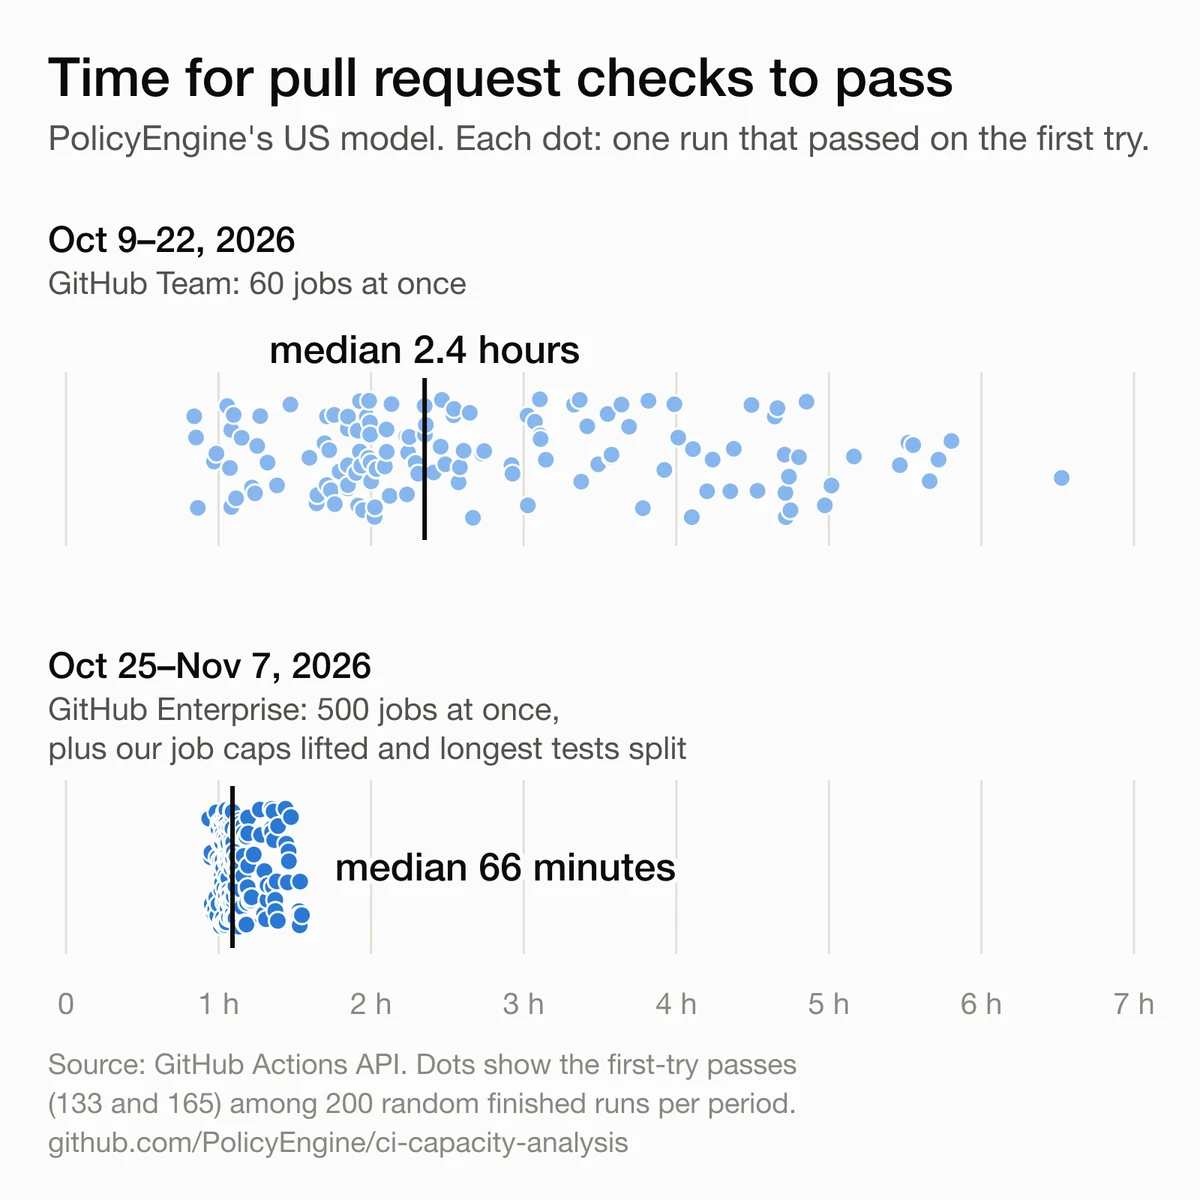
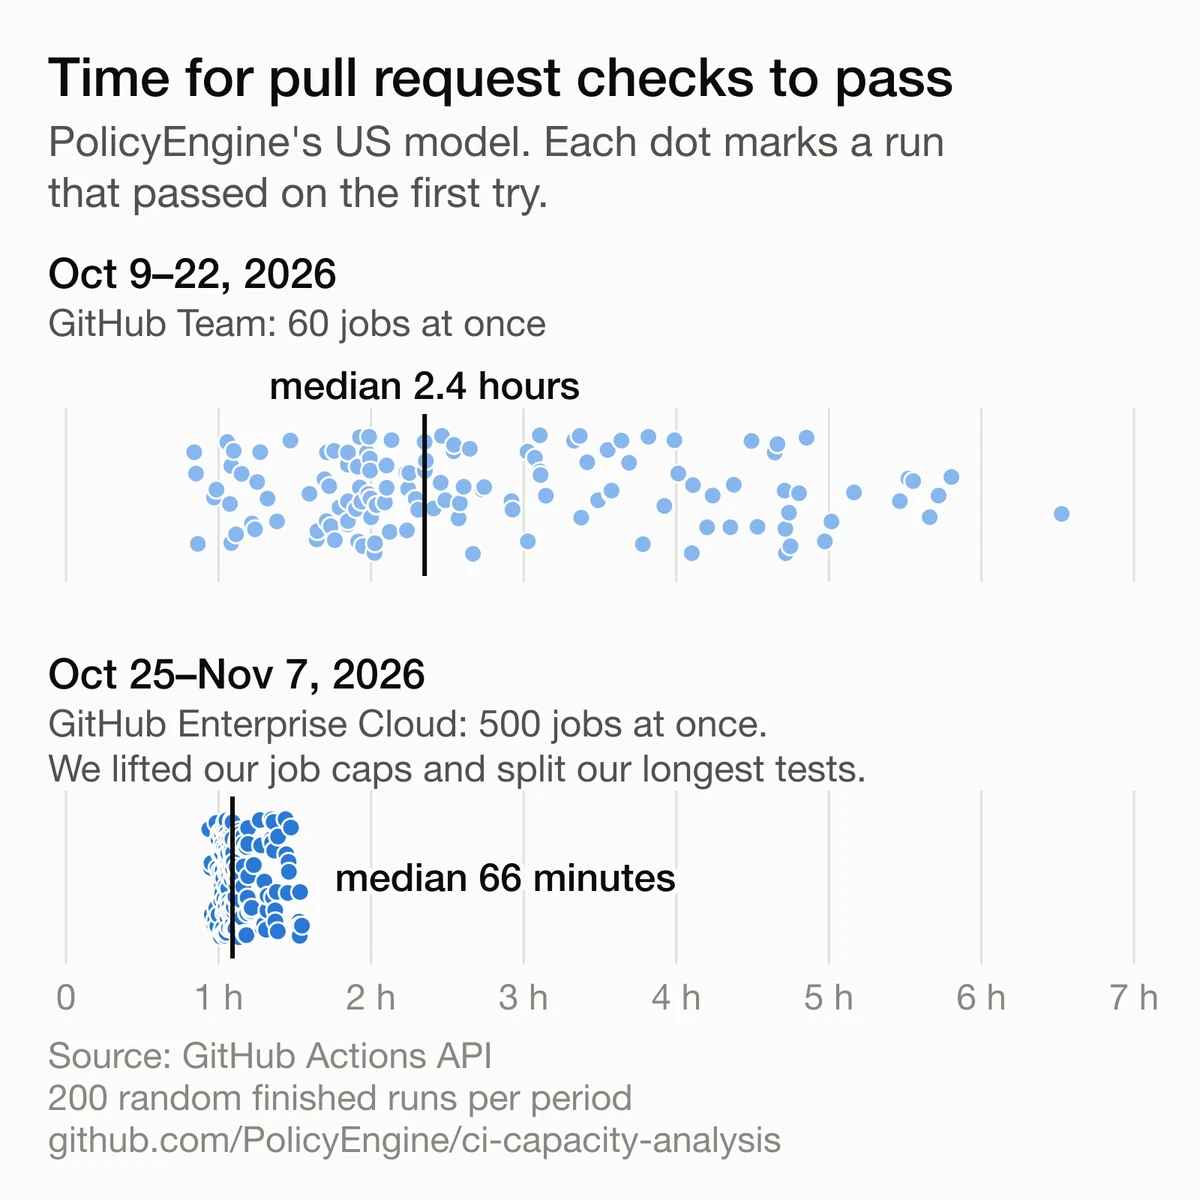
Apply the second review pass to the CI capacity post
- Describe policyengine-us#10231 as it reads: six-job caps per run on Baseline
  and Contrib, Contrib after Baseline, at most 11 jobs at once instead of about
  25; give the waits under the caps (35 and 11 minutes).
- State the capped-job exclusion in prose; split out the 13-minute wait for the
  other jobs, now backed by the analysis repository.
- Table: 3 seconds (3 to 3) and 141 minutes (126 to 156); drop the claim about
  every resample.
- Second chart: horizontal, retitled, "60 (the limit)"; first chart's subtitle
  gives the date range.
- Rest Python tests: the longest-running part, balanced by times from a recent
  successful run on main.
- Replace the dot chart with the re-rendered version and keep the alt text,
  description and lead at "about 67 hours".

diff --git a/app/src/data/posts/articles/github-actions-60-job-limit.md b/app/src/data/posts/articles/github-actions-60-job-limit.md
@@ -1,12 +1,12 @@
-PolicyEngine merged 2,454 pull requests in October 2026, 11.6 times as many as in October 2025. GitHub Actions runs the automated checks on each pull request as a set of jobs, and on its Team plan it runs up to 60 of an organization's jobs at once ([GitHub's Actions limits](https://docs.github.com/en/actions/reference/limits)). From October 9 to 22, we hit that limit for at least 67 hours. For example, jobs on pull requests to our US model waited a median 22 minutes to start, partly behind caps we had set.
+PolicyEngine merged 2,454 pull requests in October 2026, 11.6 times as many as in October 2025. GitHub Actions runs the automated checks on each pull request as a set of jobs. On its Team plan, GitHub runs up to 60 jobs at once on its standard runners ([GitHub's Actions limits](https://docs.github.com/en/actions/reference/limits)). From October 9 to 22, we hit that limit for about 67 hours. For example, jobs on pull requests to our US model waited a median 22 minutes to start, partly behind caps we had set.
 
-On October 23, we moved to GitHub Enterprise Cloud, which runs up to 500 jobs at once. Ziming Hua also lifted those caps and split the US model's longest tests across parallel jobs. In the two weeks after, jobs on pull requests to the US model started in a median 3 seconds. Checks that passed on the first try finished in a median 66 minutes, down from 2.4 hours.
+On October 23, we moved to GitHub Enterprise Cloud, where GitHub runs up to 500 jobs at once. Ziming Hua also lifted those caps and split the US model's longest tests across parallel jobs. In the two weeks after, jobs on pull requests to the US model started in a median 3 seconds. Checks that passed on the first try finished in a median 66 minutes, down from 2.4 hours.
 
 ```chart
 {
   "type": "bar",
   "title": "Pull requests PolicyEngine merged each month",
-  "subtitle": "Every repository in the PolicyEngine organization on GitHub, public and private",
+  "subtitle": "Every repository in the PolicyEngine organization on GitHub, public and private, October 2025 to October 2026",
   "xKey": "month",
   "series": [{ "key": "merged", "name": "Merged pull requests", "color": "primary" }],
   "data": [
@@ -33,14 +33,17 @@ On October 23, we moved to GitHub Enterprise Cloud, which runs up to 500 jobs at
 
 ## Where the time went
 
-We pulled the record of every job that ran on GitHub's standard runners in 12 of our repositories, for runs created from October 9 to 22: 57,357 jobs in all. Together, those repositories reached 60 jobs at once in 4,025 of the 20,160 minutes, or 67 hours, and almost never went past it, so the limit covered the 12 together. They ran 55 or more in 9,842 minutes, nearly half of the two weeks. Jobs in our other repositories count toward the limit too, so the organization as a whole ran at least this many.
+We pulled the record of every job that ran on GitHub's standard runners in 12 of our repositories, for runs created from October 9 to 22: 57,357 jobs in all. Together, those repositories reached 60 jobs at once in 4,025 of the 20,160 minutes, or about 67 hours. They almost never went past 60, so the limit covered the 12 together. They ran 55 or more in 9,842 minutes, nearly half of the two weeks. Jobs in our other repositories count toward the limit too, so these counts understate how many jobs the organization ran at once.
 
-Jobs that GitHub created while fewer than 45 were running started in a median 2 seconds. With 55 to 59 running, the median wait rose to 23 minutes, and at the limit, to 27 minutes.
+On October 15, Ziming capped two of the US model's test suites, Baseline and Contrib, at six jobs at a time in each run, and made Contrib wait for Baseline ([policyengine-us#10231](https://github.com/PolicyEngine/policyengine-us/pull/10231)). Each run of the model's checks then ran at most 11 jobs at once, down from about 25. In the runs we sampled from before the caps, Baseline and Contrib jobs already waited a median 19 minutes to start, and the model's other jobs 4 minutes. In runs created under the caps, Baseline and Contrib jobs waited a median 35 minutes, including time they waited behind the caps, and the model's other jobs 11 minutes.
+
+Across the 12 repositories, jobs that GitHub created while fewer than 45 were running started in a median 2 seconds. With 55 to 59 running, the median wait rose to 23 minutes, and at the limit, to 27 minutes. We leave out the US model's Baseline and Contrib jobs created after the caps took effect, since they also waited behind the caps.
 
 ```chart
 {
   "type": "bar",
-  "title": "Jobs that waited more than 5 minutes to start",
+  "orientation": "horizontal",
+  "title": "Share of jobs that waited more than 5 minutes to start",
   "subtitle": "By the number of jobs running when GitHub created the job, in 12 PolicyEngine repositories, October 9 to 22, 2026",
   "xKey": "running",
   "series": [{ "key": "share", "name": "Jobs that waited more than 5 minutes", "color": "primary" }],
@@ -49,7 +52,7 @@ Jobs that GitHub created while fewer than 45 were running started in a median 2 
     { "running": "30 to 44", "share": 3.04 },
     { "running": "45 to 54", "share": 27.16 },
     { "running": "55 to 59", "share": 80.15 },
-    { "running": "At the limit (60)", "share": 81.75 }
+    { "running": "60 (the limit)", "share": 81.75 }
   ],
   "legend": false,
   "format": { "decimals": 0, "suffix": "%" },
@@ -57,15 +60,13 @@ Jobs that GitHub created while fewer than 45 were running started in a median 2 
 }
 ```
 
-On October 15, Ziming capped the US model's Baseline and Contrib test suites at six jobs at a time per pull request, so pull requests would share the 60-job limit ([policyengine-us#10231](https://github.com/PolicyEngine/policyengine-us/pull/10231)). Before then, in the runs we sampled, jobs in those suites already waited a median 18.7 minutes to start, and the model's other jobs 4.2 minutes. After that, Baseline and Contrib jobs also waited their turn under the caps, and the model's other jobs waited a median 11.3 minutes.
-
 ## What we changed
 
 We made three changes on October 23 and 24:
 
 - We moved our organization to GitHub Enterprise Cloud.
-- Ziming removed the six-job caps ([policyengine-us#10416](https://github.com/PolicyEngine/policyengine-us/pull/10416)).
-- Ziming split the Rest Python tests, which set the length of the US model's checks, from two jobs in sequence into 4 to 12 parallel jobs ([policyengine-us#10439](https://github.com/PolicyEngine/policyengine-us/pull/10439)). A first job divides the tests among them by how long each took in recent runs.
+- Ziming removed the six-job caps and kept Contrib waiting for Baseline ([policyengine-us#10416](https://github.com/PolicyEngine/policyengine-us/pull/10416)).
+- Ziming split the Rest Python tests, the longest-running part of the US model's checks, from two jobs in sequence into 4 to 12 parallel jobs ([policyengine-us#10439](https://github.com/PolicyEngine/policyengine-us/pull/10439)). A first job divides the tests among them by how long each took in a recent successful run on our main branch.
 
 We compare the two weeks before these changes with the two weeks after, leaving out October 23 and 24, and we don't divide the gain among the three.
 
@@ -79,15 +80,15 @@ From each two-week window, we drew 200 random runs of the checks on pull request
 | --- | ---: | ---: |
 | GitHub plan | Team | Enterprise Cloud |
 | Jobs GitHub runs at once | 60 | 500 |
-| Median wait for a job to start | 22 minutes (16 to 27) | 3 seconds |
+| Median wait for a job to start | 22 minutes (16 to 27) | 3 seconds (3 to 3) |
 | Jobs that waited more than 5 minutes | 68% | 0.1% |
-| Median time for a run that passed on the first try | 2.4 hours (2.1 to 2.6) | 66 minutes (64 to 67) |
+| Median time for a run that passed on the first try | 141 minutes (126 to 156) | 66 minutes (64 to 67) |
 
-Parentheses give 95% intervals from a bootstrap that resamples runs, and after the changes every resample gave a median wait of 3 seconds. From October 15, the waits before the changes include time our caps held Baseline and Contrib jobs. Without those jobs, the rest waited a median 13 minutes, and 60% of them waited more than 5 minutes.
+We give 95% intervals in parentheses, from a bootstrap that resamples runs. From October 15, the waits before the changes include time Baseline and Contrib jobs waited behind our caps. All other jobs in those two weeks, including Baseline and Contrib jobs in runs created before the caps, waited a median 13 minutes (7 to 21), and 60% of them waited more than 5 minutes.
 
-![Each dot marks one run of the checks on a pull request to PolicyEngine's US model that passed on the first try, among 200 random runs per period. From October 9 to 22, 2026, under GitHub Team's limit of 60 jobs at once, the 133 runs took from about 50 minutes to 6.5 hours, with a median of 2.4 hours. From October 25 to November 7, PolicyEngine used GitHub Enterprise Cloud, with a limit of 500. By then, Ziming Hua had lifted the six-job caps and split the longest tests across parallel jobs. Those 165 runs took between 56 and 93 minutes, with a median of 66 minutes.](/assets/posts/github-actions-60-job-limit/us-pr-check-time.webp)
+![Each dot marks one run of the checks on a pull request to PolicyEngine's US model that passed on the first try, among 200 random runs per period. From October 9 to 22, 2026, under GitHub Team's limit of 60 jobs at once, the 133 runs took from about 50 minutes to 6.5 hours, with a median of 2.4 hours. From October 25 to November 7, we used GitHub Enterprise Cloud, with a limit of 500. By then, we had lifted our job caps and split our longest tests across parallel jobs. Those 165 runs took between 56 and 93 minutes, with a median of 66 minutes.](/assets/posts/github-actions-60-job-limit/us-pr-check-time.webp)
 
-Before the changes, runs that passed on the first try took from about 50 minutes to 6.5 hours. After them, all 165 sampled runs took between 56 and 93 minutes.
+Before the changes, runs that passed on the first try took from about 50 minutes to 6.5 hours. After them, all 165 took between 56 and 93 minutes.
 
 ## How we measured
 
